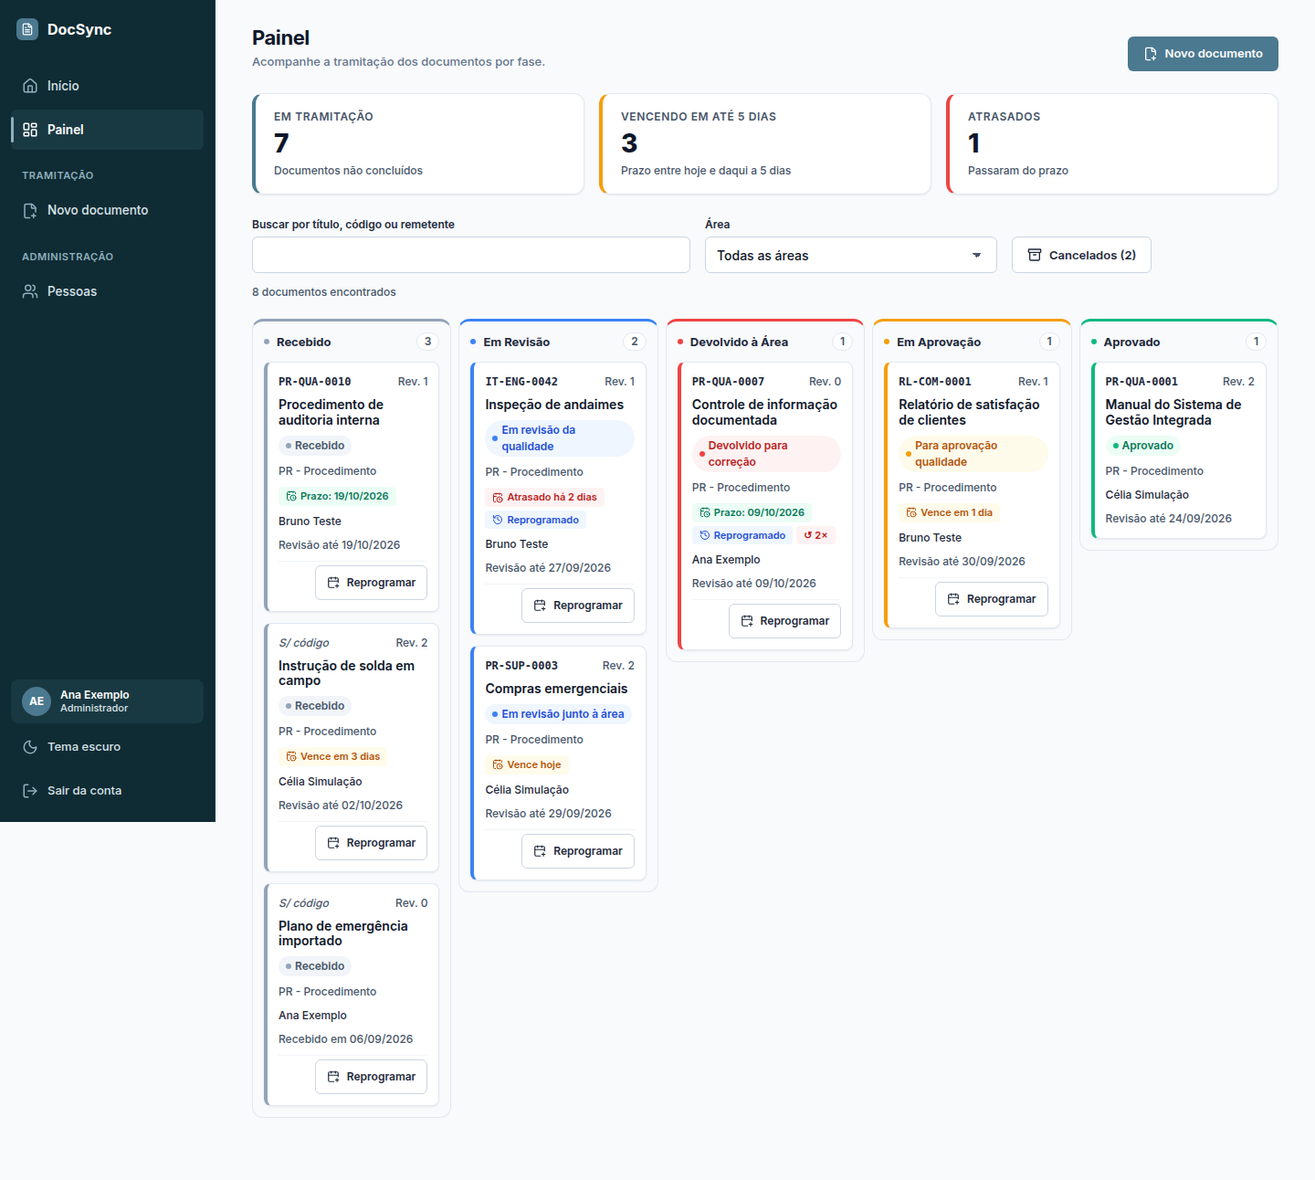
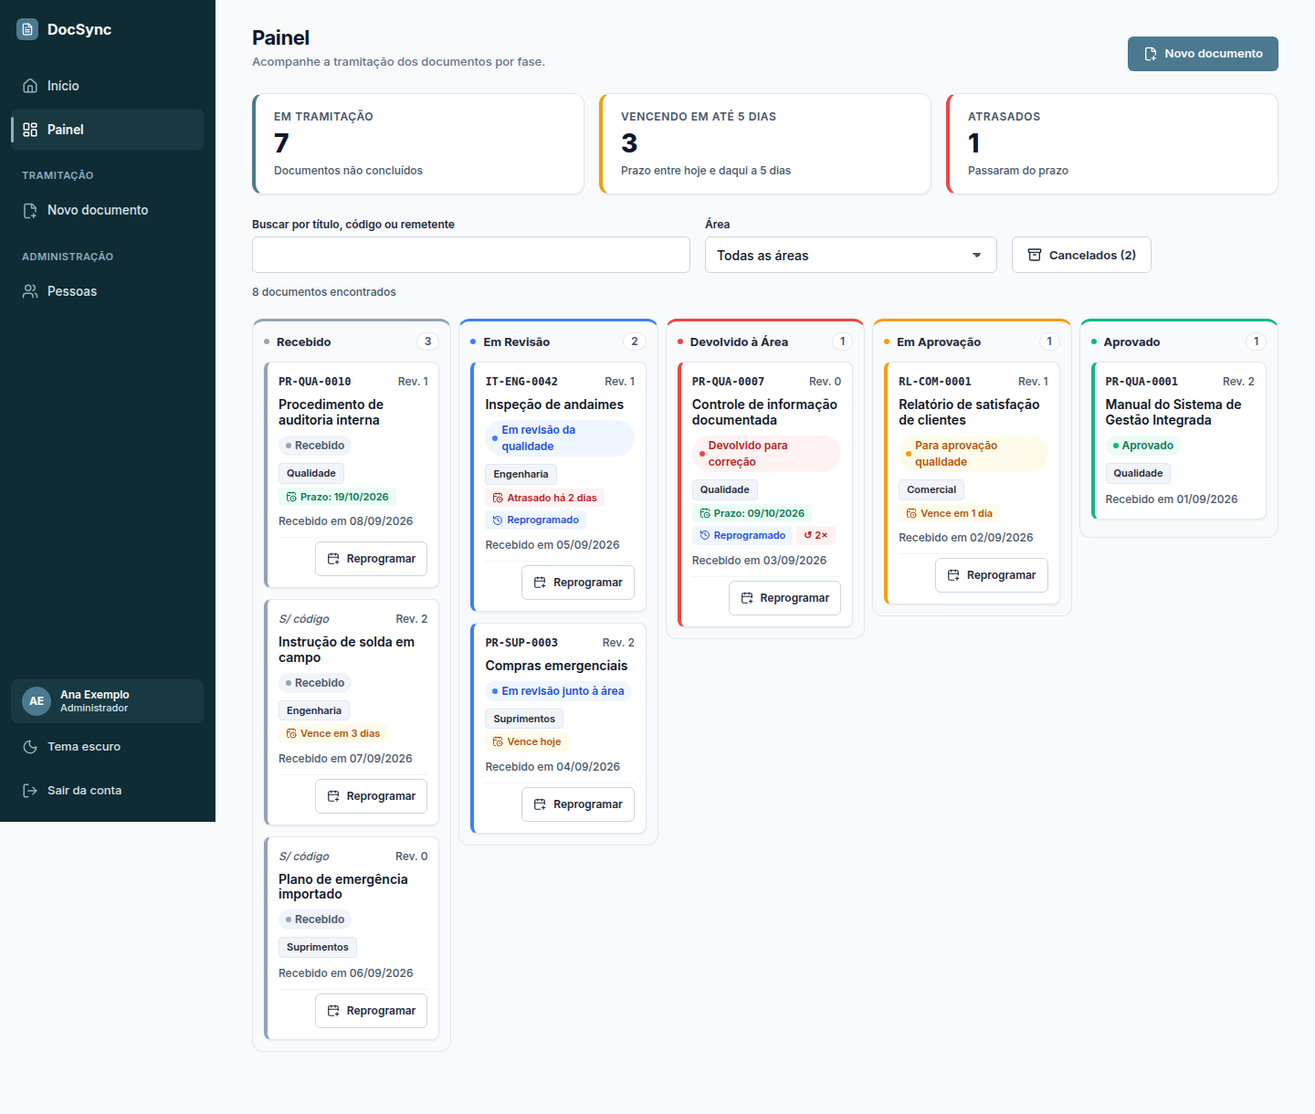
F3: cartão enxuto, área fixa para o Solicitante e roteiro de validação
Claude-Session: https://claude.ai/code/session_01B3gkGo9nqbChhhVxVZNRHD

diff --git a/apps/web/src/componentes/CartaoDocumento.tsx b/apps/web/src/componentes/CartaoDocumento.tsx
@@ -19,7 +19,9 @@ interface Props {
 }
 
 /**
- * Cartão do Painel (contrato F3, seção 5): só leitura + Reprogramar. Sem "Detalhes", "Histórico",
+ * Cartão do Painel (contrato F3, seção 5), enxuto como o Planner: código e revisão, título,
+ * status, etiquetas (área, prazo, reprogramado, devoluções) e data de recebimento. Tipo e
+ * remetente não aparecem (a busca continua procurando no remetente). Só leitura + Reprogramar. Sem "Detalhes", "Histórico",
  * "Editar" nem ações de status (F4, F5, F6). Clicar no cartão só dá foco.
  * Todo texto vem da base e é exibido como texto (React escapa; nada de HTML cru).
  */
@@ -46,30 +48,22 @@ export function CartaoDocumento({ cartao, hoje, podeReprogramar, aoReprogramar, 
         <div className={estilos.linhaStatus}>
           <BadgeStatus status={cartao.status} />
         </div>
-        <p className={estilos.tipo}>{cartao.tipoDocumento}</p>
+        <div className={estilos.etiquetas}>
+          <span className={estilos.area}>
+            <span className="visualmente-oculto">Área: </span>
+            {cartao.area}
+          </span>
+          {etiqueta && <EtiquetaPrazo etiqueta={etiqueta} />}
+          {cartao.reprogramado && <EtiquetaReprogramado vezes={cartao.qtdReprogramacoes} />}
+          {devolucoes > 0 && (
+            <span className={estilos.devolucoes} title={`Devolvido ${devolucoes === 1 ? '1 vez' : `${devolucoes} vezes`}`}>
+              <span aria-hidden="true">↺ {devolucoes}×</span>
+              <span className="visualmente-oculto">Devolvido {devolucoes === 1 ? '1 vez' : `${devolucoes} vezes`}</span>
+            </span>
+          )}
+        </div>
 
-        {(etiqueta || cartao.reprogramado || devolucoes > 0) && (
-          <div className={estilos.etiquetas}>
-            {etiqueta && <EtiquetaPrazo etiqueta={etiqueta} />}
-            {cartao.reprogramado && <EtiquetaReprogramado vezes={cartao.qtdReprogramacoes} />}
-            {devolucoes > 0 && (
-              <span className={estilos.devolucoes} title={`Devolvido ${devolucoes === 1 ? '1 vez' : `${devolucoes} vezes`}`}>
-                <span aria-hidden="true">↺ {devolucoes}×</span>
-                <span className="visualmente-oculto">Devolvido {devolucoes === 1 ? '1 vez' : `${devolucoes} vezes`}</span>
-              </span>
-            )}
-          </div>
-        )}
-
-        <p className={estilos.remetente}>
-          <span className="visualmente-oculto">Remetente: </span>
-          {cartao.remetente}
-        </p>
-        <p className={estilos.data}>
-          {cartao.dataRevisao
-            ? `Revisão até ${formatarData(cartao.dataRevisao)}`
-            : `Recebido em ${formatarData(cartao.dataRecebimento)}`}
-        </p>
+        <p className={estilos.data}>Recebido em {formatarData(cartao.dataRecebimento)}</p>
 
         {podeReprogramar && aoReprogramar && (
           <div className={estilos.acoes}>

diff --git a/apps/web/src/telas/TelaPainel.test.tsx b/apps/web/src/telas/TelaPainel.test.tsx
@@ -178,7 +178,7 @@ describe('TelaPainel', () => {
     expect(within(coluna(/^Recebido/)).getAllByRole('article')).toHaveLength(2);
   });
 
-  it('cartão mostra etiquetas de prazo, Reprogramado, devoluções e datas', async () => {
+  it('cartão enxuto: área, etiquetas de prazo, Reprogramado, devoluções e data de recebimento', async () => {
     renderizar(apiSimulada());
     await quadro();
     expect(within(cartaoDe('Procedimento de auditoria')).getByText('Prazo: 19/10/2026')).toBeInTheDocument();
@@ -191,6 +191,13 @@ describe('TelaPainel', () => {
     expect(within(devolvido).getByText('Vence hoje')).toBeInTheDocument();
     expect(within(devolvido).getByText('Devolvido 2 vezes')).toBeInTheDocument();
     expect(within(cartaoDe('Relatório de clientes')).getByText('Recebido em 01/09/2026')).toBeInTheDocument();
+    // Enxuto (pedido do Eric): área como etiqueta; recebimento sempre; sem tipo, remetente nem "Revisão até".
+    const auditoria = cartaoDe('Procedimento de auditoria');
+    expect(within(auditoria).getByText('Qualidade')).toBeInTheDocument();
+    expect(within(auditoria).getByText('Área:')).toHaveClass('visualmente-oculto');
+    expect(within(auditoria).getByText('Recebido em 01/09/2026')).toBeInTheDocument();
+    expect(auditoria).not.toHaveTextContent(/Revisão até|PR - Procedimento|Ana Exemplo|Remetente/);
+    expect(devolvido).not.toHaveTextContent('José Ação');
     // Aprovado não tem etiqueta de prazo.
     expect(within(cartaoDe('Manual do SGI')).queryByText(/Atrasado|Vence|Prazo:/)).not.toBeInTheDocument();
     // Nada decorativo: nenhum outro botão além de Reprogramar.
@@ -228,6 +235,16 @@ describe('TelaPainel', () => {
     await usuario.click(screen.getByRole('button', { name: 'Limpar filtros' }));
     expect(screen.getAllByRole('article')).toHaveLength(6);
     expect(area).toHaveValue('');
+  });
+
+  it('Solicitante: sem seleção de área; mostra "Área: <a dele>" em texto (provisório)', async () => {
+    renderizar(apiSimulada(), SOLICITANTE);
+    await quadro();
+    expect(screen.queryByRole('combobox', { name: 'Área' })).not.toBeInTheDocument();
+    const filtros = screen.getByRole('search', { name: 'Filtrar documentos' });
+    expect(filtros).toHaveTextContent('Área: Engenharia');
+    // A busca continua procurando no remetente, mesmo sem ele aparecer no cartão.
+    expect(screen.getByRole('searchbox', { name: 'Buscar por título, código ou remetente' })).toBeInTheDocument();
   });
 
   it('Cancelados (N) abre a janela com os cancelados, respeitando a área', async () => {

diff --git a/apps/web/e2e/painel.spec.ts b/apps/web/e2e/painel.spec.ts
@@ -118,6 +118,27 @@ test('busca e área filtram o quadro e a contagem de cancelados', async ({ page 
   await expect(page.getByRole('region', { name: 'Quadro de tramitação' }).getByRole('article')).toHaveCount(2);
 });
 
+test('cartão enxuto: etiqueta de área e "Recebido em", sem tipo, remetente nem "Revisão até"', async ({ page }) => {
+  await abrir(page);
+  const cartao = page.getByRole('article', { name: 'Procedimento de auditoria interna' });
+  await expect(cartao.getByText('Área: Qualidade')).toBeVisible();
+  await expect(cartao.getByText('Recebido em 08/09/2026')).toBeVisible();
+  await expect(cartao).not.toContainText('Revisão até');
+  await expect(cartao).not.toContainText('PR - Procedimento');
+  await expect(cartao).not.toContainText('Bruno Teste');
+});
+
+for (const tema of TEMAS) {
+  test(`Solicitante ${tema}: "Área: <a dele>" em texto, sem seleção de área, axe`, async ({ page }) => {
+    await abrir(page, { tema, extra: '&perfil=Solicitante' });
+    const filtros = page.getByRole('search', { name: 'Filtrar documentos' });
+    await expect(filtros).toContainText('Área: Qualidade');
+    await expect(page.getByRole('combobox', { name: 'Área' })).toHaveCount(0);
+    await expect(page.getByRole('region', { name: 'Quadro de tramitação' }).getByRole('article')).toHaveCount(3);
+    await axe(page);
+  });
+}
+
 test('Tab alcança filtros, cartões e o botão Reprogramar', async ({ page }) => {
   await abrir(page);
   await expect(page.getByRole('article').first()).toBeVisible();

diff --git a/apps/web/src/telas/TelaPainel.tsx b/apps/web/src/telas/TelaPainel.tsx
@@ -272,16 +272,24 @@ export function TelaPainel() {
             onChange={(e) => setBusca(e.target.value)}
           />
         </div>
-        <div className={estilos.area}>
-          <CampoSelecao id="painel-area" rotulo="Área" value={areaId} onChange={(e) => setAreaId(e.target.value)}>
-            <option value="">Todas as áreas</option>
-            {areas.map((a) => (
-              <option key={a.id} value={a.id}>
-                {a.nome}
-              </option>
-            ))}
-          </CampoSelecao>
-        </div>
+        {/* Provisório: o Solicitante só vê a própria área, então não há o que escolher (até existir
+            um painel próprio para quem só acompanha). Demais perfis escolhem entre as áreas ativas. */}
+        {eu.perfil === 'Solicitante' ? (
+          <p className={estilos.areaFixa}>
+            <span className={estilos.areaFixaRotulo}>Área:</span> {eu.area ?? '—'}
+          </p>
+        ) : (
+          <div className={estilos.area}>
+            <CampoSelecao id="painel-area" rotulo="Área" value={areaId} onChange={(e) => setAreaId(e.target.value)}>
+              <option value="">Todas as áreas</option>
+              {areas.map((a) => (
+                <option key={a.id} value={a.id}>
+                  {a.nome}
+                </option>
+              ))}
+            </CampoSelecao>
+          </div>
+        )}
         <Botao
           className={estilos.botaoCancelados}
           icone={<Archive size={16} aria-hidden="true" />}

diff --git a/apps/web/src/componentes/CartaoDocumento.module.css b/apps/web/src/componentes/CartaoDocumento.module.css
@@ -87,22 +87,32 @@
   white-space: normal;
 }
 
-.tipo,
-.remetente,
 .data {
   font-size: var(--fs-caption);
   color: var(--text-secondary);
   overflow-wrap: anywhere;
 }
 
-.remetente {
-  color: var(--text-strong);
-}
-
 .etiquetas {
   display: flex;
   flex-wrap: wrap;
   gap: var(--space-1);
+}
+
+/* Etiqueta neutra de área: #1E293B sobre #F1F5F9 (claro), #F1F5F9 sobre #193942 (escuro). */
+.area {
+  display: inline-flex;
+  align-items: center;
+  max-width: 100%;
+  padding: calc(var(--space-1) / 2) var(--space-2);
+  border: var(--borda-fina) solid var(--border-subtle);
+  border-radius: var(--radius-xs);
+  background: var(--bg-hover);
+  color: var(--text-strong);
+  font-size: var(--fs-micro);
+  font-weight: var(--fw-semibold);
+  line-height: var(--lh-base);
+  overflow-wrap: anywhere;
 }
 
 .devolucoes {

diff --git a/apps/web/e2e/vitrine/vitrine.tsx b/apps/web/e2e/vitrine/vitrine.tsx
@@ -122,7 +122,9 @@ const api: Api = {
     await esperar(150);
     if (modoPainel === 'erro') throw new ErroApi(0, 'sem_conexao');
     const filtro = { busca: consulta.busca ?? '', areaId: consulta.areaId ?? null };
-    const visiveis = filtrarCartoes(cartoes, filtro);
+    // Como a API: o Solicitante só vê os documentos da sua área.
+    const daPessoa = perfil === 'Solicitante' ? cartoes.filter((c) => c.areaId === eu.areaId) : cartoes;
+    const visiveis = filtrarCartoes(daPessoa, filtro);
     return {
       cartoes: consulta.cancelados ? visiveis : visiveis.filter((c) => c.fase !== 'cancelado'),
       qtdCancelados: visiveis.filter((c) => c.fase === 'cancelado').length,

diff --git a/apps/web/src/telas/TelaPainel.module.css b/apps/web/src/telas/TelaPainel.module.css
@@ -69,6 +69,23 @@
   min-width: 0;
 }
 
+/* Solicitante: área fixa em texto, alinhada à altura dos campos (sem controle). */
+.areaFixa {
+  display: flex;
+  align-items: center;
+  gap: var(--space-1);
+  min-height: var(--campo-altura);
+  min-width: 0;
+  font-size: var(--fs-body);
+  color: var(--text-primary);
+  overflow-wrap: anywhere;
+}
+
+.areaFixaRotulo {
+  font-weight: var(--fw-semibold);
+  color: var(--text-strong);
+}
+
 .botaoCancelados {
   min-height: var(--campo-altura);
 }

diff --git a/docs/contratos/f3-painel-kanban.md b/docs/contratos/f3-painel-kanban.md
@@ -281,9 +281,9 @@ A cor nunca vai sozinha: o texto já diz o estado, e a etiqueta tem `aria-label`
 - Rota `/painel`, tela `apps/web/src/telas/TelaPainel.tsx`; item "Painel" na barra lateral logo abaixo de Início (ícone `LayoutDashboard`), visível para quem tem `pode(eu, 'verDocumentos')`. A tela Início ganha o link "Abrir o painel" só porque o destino passa a existir.
 - Chamadas só pelo cliente de `api/cliente.ts`: `painel(filtro)` → `RespostaPainel` e `reprogramarPrazo(id, dados)` → `ResultadoReprogramacao`. A tela carrega uma vez sem cancelados e **filtra no cliente** com `filtrarCartoes` (busca em tempo real sem ir ao servidor a cada tecla); a janela de cancelados faz a sua própria chamada. Depois de reprogramar, substitui o cartão pelo `documento` devolvido (sem recarregar tudo).
 - **Cabeçalho:** título "Painel", botão "Novo documento" (só se `podeCadastrarDocumento`), três KPIs com rótulo e subtítulo coerentes (P-13): "Em tramitação — documentos não concluídos", "Vencendo em até 5 dias — prazo entre hoje e daqui a 5 dias", "Atrasados — passaram do prazo". KPIs recalculados a cada mudança de busca/área.
-- **Filtros:** campo de busca (`type="search"`, rótulo "Buscar por título, código ou remetente", `aria-live="polite"` num texto "N documentos encontrados"); seleção "Área" com "Todas as áreas" + áreas **em ordem pt-BR** (`ordenarAlfabetico`) vindas de `GET /areas` (todas as áreas ativas); botão "Cancelados (N)", N = `qtdCancelados`, que abre a **janela de cancelados** (como no sistema antigo, documento 03, 9.2).
+- **Filtros:** campo de busca (`type="search"`, rótulo "Buscar por título, código ou remetente", `aria-live="polite"` num texto "N documentos encontrados"); seleção "Área" com "Todas as áreas" + áreas **em ordem pt-BR** (`ordenarAlfabetico`) vindas de `GET /areas` (todas as áreas ativas). **Solicitante** (só vê a própria área): sem a seleção; no lugar, o texto "Área: <área dele>", sem controle. Provisório até existir um painel próprio para quem só acompanha (decisão futura); botão "Cancelados (N)", N = `qtdCancelados`, que abre a **janela de cancelados** (como no sistema antigo, documento 03, 9.2).
 - **Quadro:** `<section aria-label="Quadro de tramitação">` com 5 colunas (`recebido`, `revisao`, `devolvido`, `aprovacao`, `aprovado`); cancelados nunca aparecem no quadro. Cada coluna é um `<section>` com `<h2>` (rótulo de `ROTULO_FASE` + contagem) e uma lista `<ul>`; coluna vazia mostra "Nenhum documento nesta fase". Largura mínima da coluna: 216px (token `--kanban-coluna-min`); as 5 cabem lado a lado a partir de ~1430px de tela. Abaixo disso o quadro **rola na horizontal só por dentro**, como no Planner; a página nunca rola na horizontal (decisão 0005). Escolha do Eric em 2026-09-29 (o valor de 1024px do rascunho era impossível com a barra lateral de 236px).
-- **Cartão** (`<li>` com `<article tabIndex={0} aria-labelledby>`): código ou "S/ código" + "Rev. N"; título; `BadgeStatus`; tipo; etiqueta de prazo; etiqueta "Reprogramado"; "↺ N×" com `aria-label="Devolvido N vezes"` (só se N > 0); remetente; "Revisão até dd/mm/aaaa" ou, sem prazo, "Recebido em dd/mm/aaaa"; botão **Reprogramar** só se `pode(eu, 'reprogramarPrazo', …)` e status não é Aprovado nem Cancelado. Nenhum outro botão.
+- **Cartão** (`<li>` com `<article tabIndex={0} aria-labelledby>`), enxuto como o Planner (pedido do Eric em 2026-09-29): linha pequena com código ou "S/ código" + "Rev. N"; título; `BadgeStatus` (subestado dentro da fase); linha de etiquetas com a **área** (etiqueta neutra, prefixo "Área: " só para leitor de tela), etiqueta de prazo, "Reprogramado" e "↺ N×" com texto oculto "Devolvido N vezes" (só se N > 0); rodapé "Recebido em dd/mm/aaaa" (sempre, `dataRecebimento`); botão **Reprogramar** só se `pode(eu, 'reprogramarPrazo', …)` e status não é Aprovado nem Cancelado. **Não aparecem** no cartão: tipo de documento, remetente e "Revisão até" (a data do prazo já está na etiqueta); a busca continua procurando no remetente. Responsável atual só entra quando existir (F5). Nenhum outro botão.
 - **Janela de cancelados** (componente `Dialogo`, foco preso, Esc fecha, título "Documentos cancelados (N)"): carrega `GET /painel?cancelados=true` e lista só os cartões da fase Cancelado, com a busca e a área em vigor; cartões iguais aos do quadro, sem botão Reprogramar; vazio: "Nenhum documento cancelado". Nada de reativar aqui (F5).
 - **Diálogo Reprogramar** (componente `Dialogo`, foco preso, Esc fecha): mostra prazo atual; campo data "Novo prazo" (`min` = o maior entre hoje do servidor e o dia seguinte ao prazo atual) e `CampoTexto` multilinha "Justificativa" com contador "N/500" e dica "mínimo 10 caracteres"; validação por script (`noValidate`) com resumo de erros focável; botão "Confirmar" desabilitado só enquanto envia. Sucesso: toast "Prazo reprogramado para dd/mm/aaaa". `409 conflito_versao`: o diálogo mostra o prazo atual vindo do erro e pede para conferir; `409 acao_nao_permitida`, `403`, `404`: mensagens de `api/erros.ts`.
 - **Estados:** carregando (esqueleto de 5 colunas com `aria-busy`), vazio geral ("Nenhum documento cadastrado ainda" + link para Novo documento se puder), vazio por filtro ("Nenhum documento corresponde à busca" + botão "Limpar filtros"), erro (`Estados` com "Tentar de novo"). KPIs mostram "—" enquanto carrega, nunca 0 falso.

diff --git a/docs/estado-atual.md b/docs/estado-atual.md
@@ -9,15 +9,27 @@ Atualizado em 2026-09-29. Leia este arquivo logo depois do CLAUDE.md ao começar
 | F0 Configuração inicial | Validada | `cb3eab4` |
 | F1 Login Microsoft, casca, pessoas e perfis, visual Vigen | Validada | `a8a8d7a`, `9617d33` |
 | F2 Modelo de dados + cadastro de documento | Validada pelo Eric em 2026-09-29 | `5f2f437` |
-| **F3 Painel Kanban** | **Em andamento: contrato aprovado, implementação em curso** | — |
+| **F3 Painel Kanban** | **Pronta, QA aprovado com ressalvas corrigidas; aguardando validação do Eric** | — |
 
 Detalhes de cada fatia: [plano-fundacao.md](plano-fundacao.md) e os relatórios em [relatorios/](relatorios/).
 
-## F3: como começar
+## F3: o que falta
 
-1. Respostas do Eric aos pontos da [decisão 0011](decisoes/0011-prazo-automatico-e-reprogramacao.md) (onde fica "Reprogramado", dias corridos ou úteis, quem reprograma, prazo dos documentos já cadastrados).
-2. Proposta de cor nova para Devolvido ou Cancelado (decisão 0009, atualização de 2026-09-29), com contraste conferido, aprovada pelo Eric.
-3. Contrato da F3 por escrito (rotas, tipos, KPIs, prazo automático no cadastro, reprogramação); depois agente de servidor (Fable) e de interface (Opus) em paralelo, verificação integrada, `agente-qa-revisao`, capturas e roteiro para o Eric.
+1. O Eric roda o roteiro abaixo com o login real (e, se possível, com as contas de teste).
+2. Se ele disser "F3 validada": marcar no plano, linha no CHANGELOG, commit e seguir para a F4.
+
+Contrato: [contratos/f3-painel-kanban.md](contratos/f3-painel-kanban.md). Relatórios: `relatorios/2026-09-29-f3-*.md`. Capturas: `relatorios/capturas/painel-*.png`.
+
+Roteiro de testes da F3 (com `npm run dev` reiniciado; a migração 0003 roda sozinha na subida):
+- documentos já cadastrados na F2 aparecem no Painel com prazo = cadastro + 30;
+- cadastrar um documento: o formulário não tem mais "Data de recebimento" e o toast mostra "Prazo: <hoje + 30>";
+- Painel (menu, abaixo de Início): 5 colunas, cartão com código, título, status, etiquetas de área e prazo, "Recebido em";
+- reprogramar: prazo igual/anterior ao atual ou justificativa com menos de 10 caracteres é recusado; prazo válido → toast e etiqueta "Reprogramado";
+- duas abas, reprogramar o mesmo documento nas duas: a segunda avisa que alguém alterou o documento;
+- busca sem acento e filtro de área mudam KPIs e contagem; "Cancelados (N)" abre a janela, Esc fecha;
+- janela menor que ~1430px: o quadro rola por dentro, a página não;
+- tema escuro: Cancelado em grafite, Devolvido em vermelho;
+- com as contas de teste: Solicitante vê só a sua área (sem seleção de área) e não vê Reprogramar; Leitor não vê Reprogramar.
 
 ## Contas de teste no Entra
 

diff --git a/docs/relatorios/2026-09-29-f3-web-painel.md b/docs/relatorios/2026-09-29-f3-web-painel.md
@@ -129,3 +129,15 @@ Defeitos do [relatório de QA](2026-09-29-f3-qa.md) corrigidos só em `apps/web`
 Arquivos: `apps/web/src/componentes/JanelaCancelados.tsx`, `apps/web/src/telas/TelaPainel.tsx`, `apps/web/src/telas/TelaPainel.module.css`, `apps/web/src/telas/TelaPainel.test.tsx` (testes de B4, B5, B6 e de `ordenarCartoesPainel`), `apps/web/e2e/painel.spec.ts` (B10), `CHANGELOG.md`.
 
 Validação: `npm run typecheck` ok; `npm test` 15 arquivos, 262 testes passando; `npm run build` ok; `npm run segredos` limpo; e2e 55 passando e 17 ignorados (capturas), com configuração temporária apontando para o Chromium de `/opt/pw-browsers` (apagada depois).
+
+## Ajustes pedidos pelo Eric
+
+Só em `apps/web`; API e pacote compartilhado intocados.
+
+- **Cartão enxuto, como o Planner:** mantém código ou "S/ código" + "Rev. N", título e `BadgeStatus`. Na linha de etiquetas entra a nova **etiqueta de área** (neutra: `--bg-hover`, `--text-strong` e borda `--border-subtle`; #1E293B sobre #F1F5F9 no claro e #F1F5F9 sobre #193942 no escuro, ambas acima de 4,5:1; prefixo "Área: " só para leitor de tela), seguida das etiquetas de prazo, "Reprogramado" e "↺ N×". Rodapé sempre "Recebido em dd/mm/aaaa". Saíram tipo de documento, remetente e "Revisão até" (a data do prazo já está na etiqueta). A busca continua procurando no remetente (`filtrarCartoes` intocada). Responsável atual não foi criado (vem na F5).
+- **Filtro de área do Solicitante:** a seleção "Área" não aparece para o Solicitante; no lugar, o texto "Área: <área dele>" (de `eu.area`), sem controle. Os demais perfis seguem com "Todas as áreas" + áreas ativas em ordem pt-BR. Provisório até existir um painel próprio para quem só acompanha (decisão futura).
+- **Vitrine:** com `?perfil=Solicitante`, o painel simulado devolve só os documentos da área da pessoa, como a API.
+- **Testes:** `TelaPainel.test.tsx` (cartão enxuto sem tipo, remetente e "Revisão até"; Solicitante sem a seleção e com "Área: Engenharia"); `e2e/painel.spec.ts` (cartão enxuto; Solicitante claro e escuro com axe).
+- **Capturas regeneradas:** `painel-1440-*`, `painel-768-*`, `painel-cancelados-*` e `painel-reprogramar-*` (claro e escuro).
+
+Arquivos: `apps/web/src/componentes/CartaoDocumento.tsx` e `.module.css`, `apps/web/src/telas/TelaPainel.tsx` e `.module.css`, `apps/web/src/telas/TelaPainel.test.tsx`, `apps/web/e2e/painel.spec.ts`, `apps/web/e2e/vitrine/vitrine.tsx`, `docs/contratos/f3-painel-kanban.md` (seção 5), capturas, `CHANGELOG.md`.

diff --git a/CHANGELOG.md b/CHANGELOG.md
@@ -36,3 +36,4 @@ Uma linha por mudança relevante, na data em que aconteceu, com link para a deci
 - Contrato da F3 aprovado pelo Eric: [docs/contratos/f3-painel-kanban.md](docs/contratos/f3-painel-kanban.md) (cancelados em janela, filtro com todas as áreas ativas, "Aprovados no mês" na F5).
 - F3 (parte servidor): prazo automático no cadastro (`dataRecebimento` = dia do cadastro em São Paulo, `dataRevisao` = +30; as duas recusadas no corpo), migração 0003 (colunas `reprogramado`/`qtd_reprogramacoes`, prazo para documentos sem prazo, evento `REPROGRAMACAO`), `GET /painel` (cartões, `qtdCancelados`, `hoje`, filtros com `filtrarCartoes`), `POST /documentos/:id/reprogramacoes` (só adia, justificativa 10–500, idempotente, `409 conflito_versao`/`acao_nao_permitida`), ação `reprogramarPrazo`, `painel.ts` no compartilhado (KPIs P-12/P-13, etiquetas, busca). Decisões [0011](docs/decisoes/0011-prazo-automatico-e-reprogramacao.md) e [0012](docs/decisoes/0012-recebimento-automatico-e-metas-de-ciclo.md). Relatório: [docs/relatorios/2026-09-29-f3-api-painel-reprogramacao.md](docs/relatorios/2026-09-29-f3-api-painel-reprogramacao.md).
 - F3 (parte interface): tela Painel (`/painel`, item "Painel" abaixo de Início e link "Abrir o painel" no Início) com três KPIs (P-13), busca sem acento, filtro com todas as áreas ativas em ordem pt-BR, quadro de 5 fases (rolagem interna no tablet), cartões com etiquetas de prazo, "Reprogramado" e devoluções, janela de cancelados, diálogo Reprogramar (validação, 409 `conflito_versao` com o prazo atual) e estados carregando/vazio/erro; Cancelado em grafite nos tokens; Novo documento sem "Data de recebimento" e com o prazo no toast; `Dialogo` com foco preso de verdade. Relatório: [docs/relatorios/2026-09-29-f3-web-painel.md](docs/relatorios/2026-09-29-f3-web-painel.md).
+- F3 (interface, ajustes do Eric): cartão do Painel enxuto como o Planner (etiqueta de área, "Recebido em" sempre; sem tipo, remetente e "Revisão até") e, para o Solicitante, "Área: <a dele>" em texto no lugar da seleção de área (provisório). Relatório: [docs/relatorios/2026-09-29-f3-web-painel.md](docs/relatorios/2026-09-29-f3-web-painel.md) (seção "Ajustes pedidos pelo Eric").
